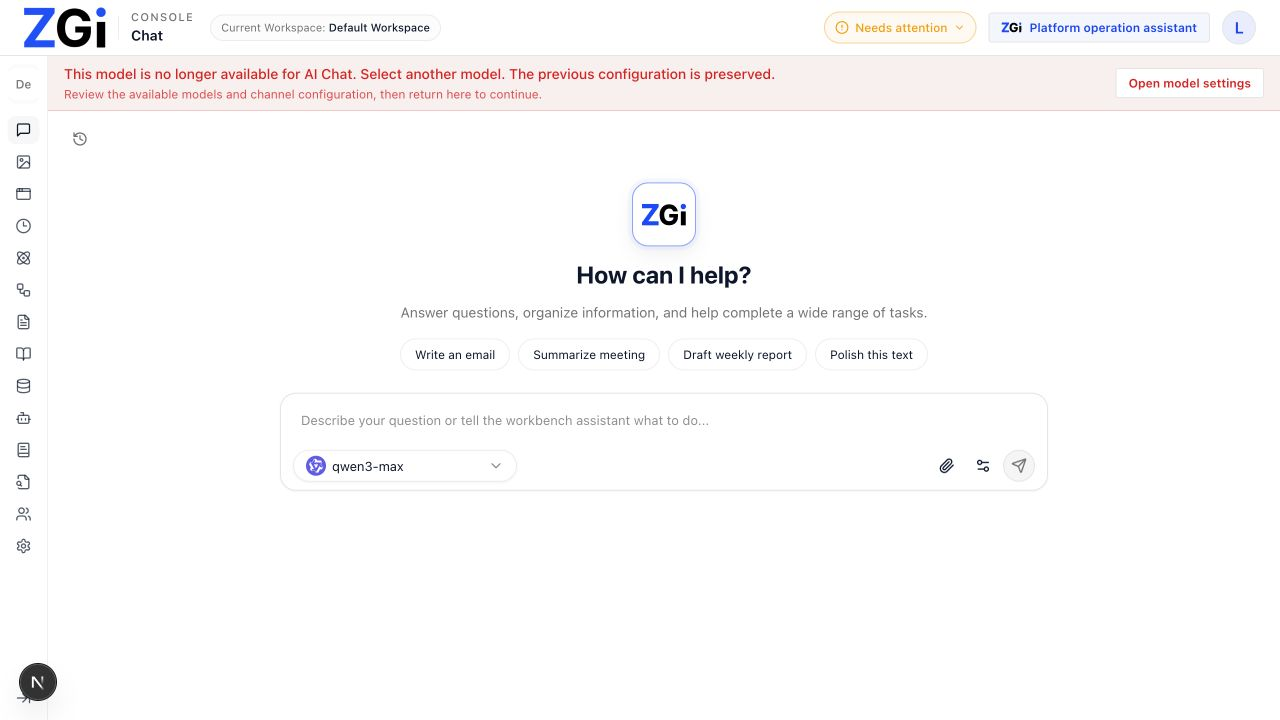
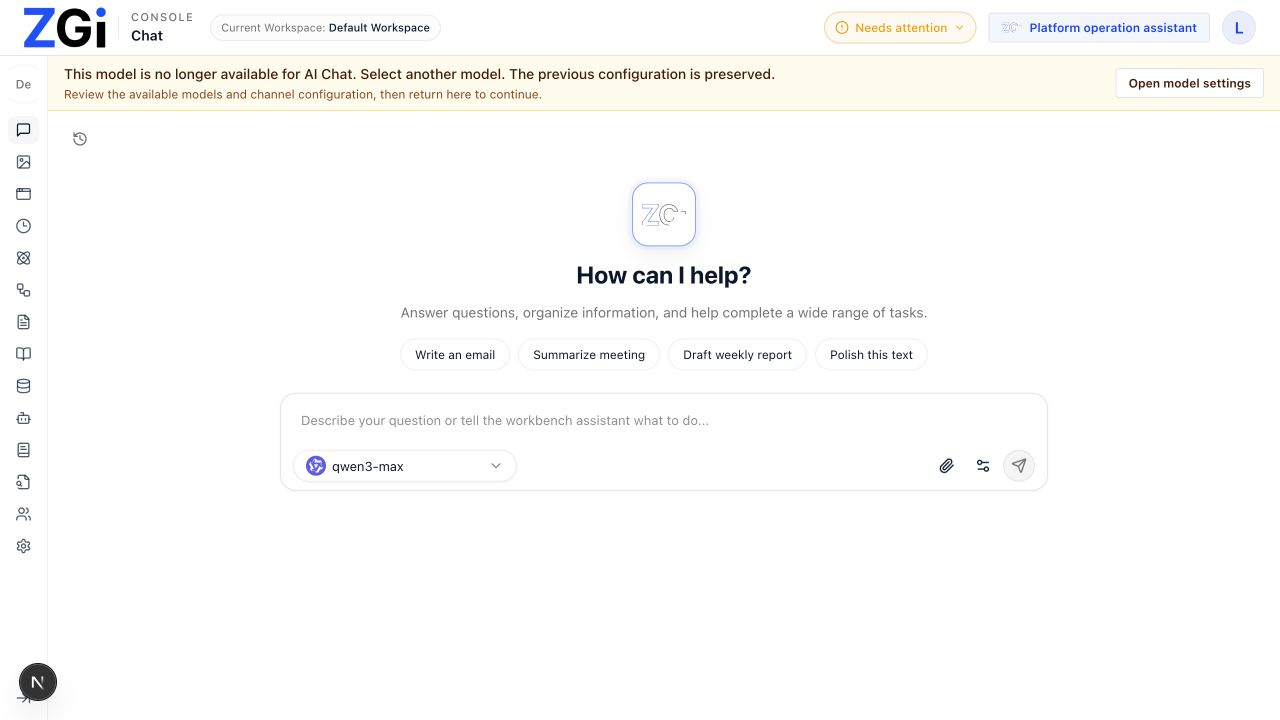
style(chat): use warning colors for model recovery

diff --git a/web/src/app/console/work/chat/page.tsx b/web/src/app/console/work/chat/page.tsx
@@ -34,7 +34,7 @@ function ModelUnavailableRecovery({
     <div className="flex w-full items-center justify-between gap-4">
       <div className="min-w-0">
         <p className="font-medium">{message}</p>
-        <p className="mt-0.5 text-xs text-destructive/80">
+        <p className="mt-0.5 text-xs text-amber-800 dark:text-amber-200">
           {canManageModelConfig ? adminDescription : memberDescription}
         </p>
       </div>
@@ -208,7 +208,7 @@ function ChatPageContent() {
       {isSelectedModelUnavailable ? (
         <div
           role="alert"
-          className="shrink-0 border-b border-destructive/20 bg-destructive/5 px-4 py-2 text-sm text-destructive"
+          className="shrink-0 border-b border-amber-300/70 bg-amber-50 px-4 py-2 text-sm text-amber-950 dark:border-amber-800/70 dark:bg-amber-950/30 dark:text-amber-100"
         >
           <ModelUnavailableRecovery
             message={t('consoleChat.modelUnavailable')}
